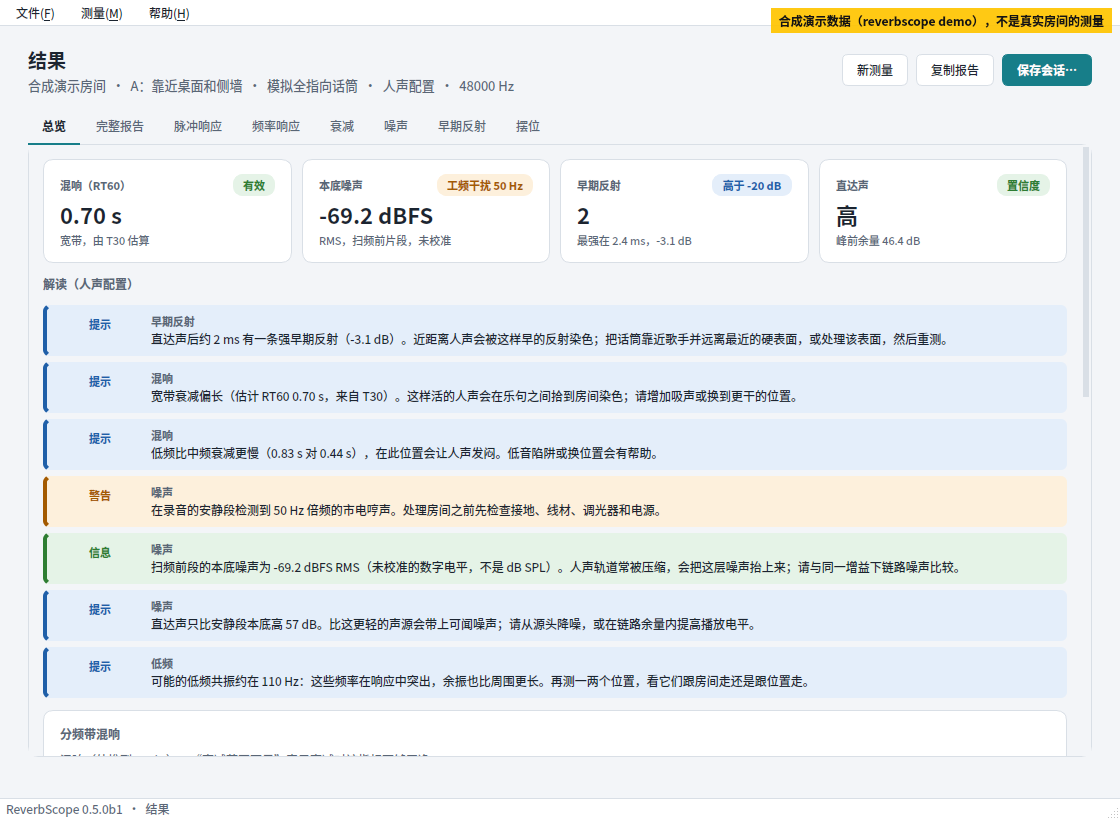
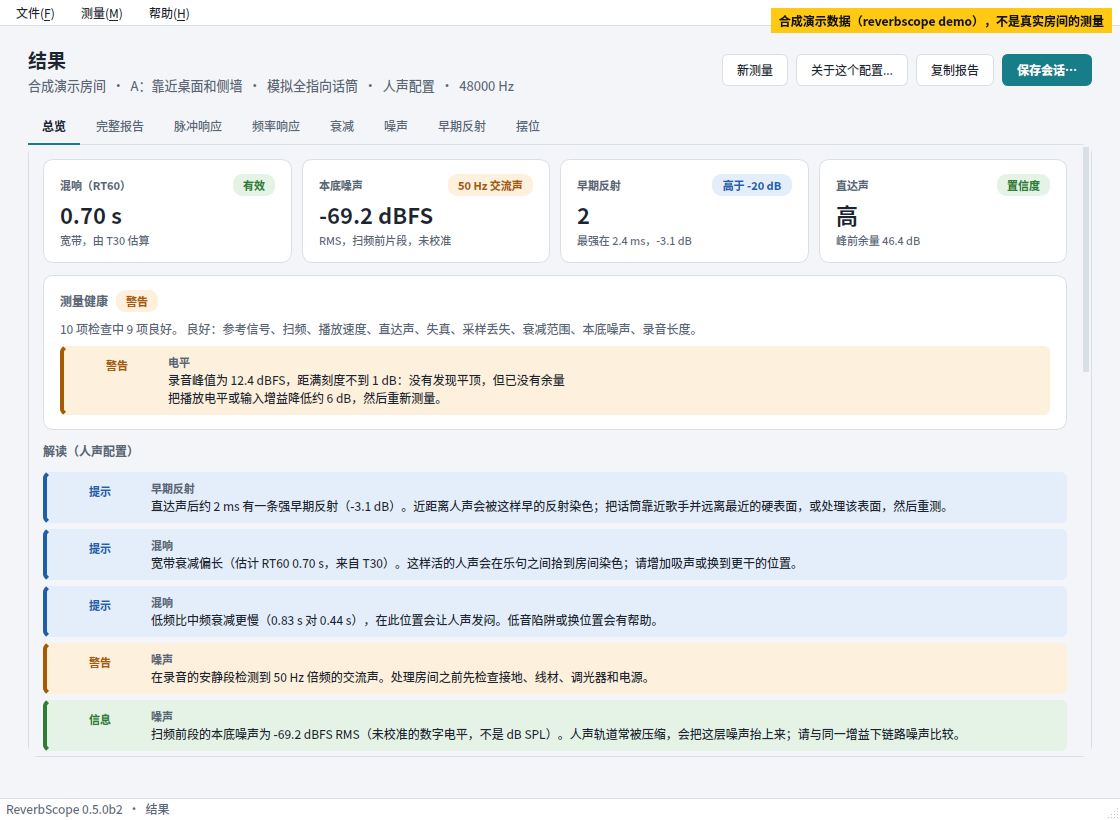
Document the Chinese terms, punctuation and wrapping in the guides and the changelog
Both user guides say which word the Chinese interface uses for what, how a
list, a clause, a note in brackets, a label and a wrong value are written,
what the wrapping keeps together and that libsndfile's reason is given in
Chinese. The overview table of the Chinese guide and the architecture notes
call its first column 方面, the README pair and the maintainers' table name
the new checks, the status record has a line, the Chinese screenshot of
the desktop app is drawn again from the current build (it showed the old
build with 市电哼声 and 工频干扰), and the changelog has the entry under
Unreleased.

Claude-Session: https://claude.ai/code/session_01EWUXx2eUbgYTNx9Lyb1kYG

diff --git a/docs/ARCHITECTURE_V1.zh-CN.md b/docs/ARCHITECTURE_V1.zh-CN.md
@@ -125,7 +125,7 @@ Profile 注册表合并内置与 entry point；第三方名字与内置冲突时
 
 退出码：0 成功；1 `ReverbScopeError`；2 用法错误或安全拒绝（电平确认）；130 中断。`--format json` 在 stdout 只输出 `result.json` 载荷加 `findings`，诊断全部走 stderr；`--json` 保留一个次版本作为别名后移除。
 
-文本输出由 `reverbscope/cli/console.py`（样式、状态符号、按显示宽度换行与制表）和 `reverbscope/cli/render.py` 排版，其他模块不写转义序列。颜色依次由 `--color`、`NO_COLOR`、`FORCE_COLOR`、`TERM=dumb` 决定，`auto` 只在终端上着色：管道和文件永远收不到转义序列或回车符。每个状态都同时带符号和文字（`✓` / `!` / `×` / `→`；流无法编码这些符号时用 `[OK]` / `[WARN]` / `[ERROR]` / `->`），颜色从不单独表达信息；在这样的流上，`Δ`、`→`、`–` 等符号也改用 ASCII，编码较窄的终端会替换无法显示的字符而不会报错。宽度计算中一个中日韩字符占两列；排版最宽 100 列。在画边框的终端上（管道、文件和图形界面的报告面板从不画），“概览”是一张带边框的表，列为项目、状态和结果，状态格是一个徽标，即符号加一个词（`✓ 良好`、`! 注意`、`✗ 问题`、`i 说明`；对比里是 `✓ 已对比` 和 `– 未对比`）：结果列先换行，仍放不下才省略状态列并在表下说明，连表都放不下时才用纯文本版式的对齐行。同样的条件下，每条解读发现是一张卡片（`Console.frame`：与终端等宽的圆角框，严重程度和主题写在上边框，边框按严重程度着色），错误是标题为 `✗ 错误` 的红色卡片，信息和说明在卡片里，可以尝试的命令留在卡片下面、不加框；卡片放不下的文字（路径从不截断）改用普通行，同一小节的卡片要么全画要么都不画。argparse 在解析选项之前抛出的用法错误，由手工读取 `--style` 和 `style` 设置来决定样式。
+文本输出由 `reverbscope/cli/console.py`（样式、状态符号、按显示宽度换行与制表）和 `reverbscope/cli/render.py` 排版，其他模块不写转义序列。颜色依次由 `--color`、`NO_COLOR`、`FORCE_COLOR`、`TERM=dumb` 决定，`auto` 只在终端上着色：管道和文件永远收不到转义序列或回车符。每个状态都同时带符号和文字（`✓` / `!` / `×` / `→`；流无法编码这些符号时用 `[OK]` / `[WARN]` / `[ERROR]` / `->`），颜色从不单独表达信息；在这样的流上，`Δ`、`→`、`–` 等符号也改用 ASCII，编码较窄的终端会替换无法显示的字符而不会报错。宽度计算中一个中日韩字符占两列；排版最宽 100 列；换行时一行不以右括号、句号等收尾标点开头（前一个字连同它前面的两字词的前半一起移到下一行），全角括号里的说明（如 `（默认：10）`）整体下移，最后一行不会只剩一个字；中文的标点由 `reverbscope/i18n.py` 的 `annotated`、`labelled`、`clause_join`、`list_join` 和 `quoted` 按中文写，英文保持原样。在画边框的终端上（管道、文件和图形界面的报告面板从不画），“概览”是一张带边框的表，列为方面、状态和结果，状态格是一个徽标，即符号加一个词（`✓ 良好`、`! 注意`、`✗ 问题`、`i 说明`；对比里是 `✓ 已对比` 和 `– 未对比`）：结果列先换行，仍放不下才省略状态列并在表下说明，连表都放不下时才用纯文本版式的对齐行。同样的条件下，每条解读发现是一张卡片（`Console.frame`：与终端等宽的圆角框，严重程度和主题写在上边框，边框按严重程度着色），错误是标题为 `✗ 错误` 的红色卡片，信息和说明在卡片里，可以尝试的命令留在卡片下面、不加框；卡片放不下的文字（路径从不截断）改用普通行，同一小节的卡片要么全画要么都不画。argparse 在解析选项之前抛出的用法错误，由手工读取 `--style` 和 `style` 设置来决定样式。
 
 每个命令的输出结构相同：标题与上下文、结果（分析和对比先给“概览”）、细节，最后是编号的下一步。普通用户错误只显示一个错误块（`× 错误：…`、说明和可以尝试的命令），退出码按文档约定；只有加 `--verbose` 才显示回溯。直接运行 `reverbscope` 会在 stderr 上显示简短的首页，退出码仍是用法错误的 2。`measure` 把设备方案和检查结果写到 stdout，进度写到 stderr（终端上是一行原地刷新的进度条，带百分比和时钟，不会碰到终端最后一列，终端窄时先去掉进度条再去掉时钟，否则只有一行阶段提示；由等待线程绘制，从不在音频回调里）。文本版式不属于 Tier 1 接口。图形界面的“完整报告”面板以纯文本显示同样的 `render.py` 报告；开发者工具里的环境报告仍使用 `diagnostics.format_environment_report`。
 

diff --git a/CHANGELOG.md b/CHANGELOG.md
@@ -93,6 +93,31 @@ All notable changes to ReverbScope are documented here. The format follows
   during a take. A pipe, a file, a terminal narrower than 48 columns, `--style
   plain`, `--format json` and the desktop app's report text are unchanged. From
   the redesign of PR #42, drawn on this line's own frames.
+- **Chinese terms, punctuation and wrapping.** The Chinese interface said
+  the same thing in two or three words on one screen: 声卡, 音频接口 and
+  音频硬件 for the audio interface, 回送 and 回环 for a loopback, 市电哼声
+  and 电源嗡声 for mains hum, 比较 and 对比 for a comparison (`不可比较`
+  beside `可对比`), 基线 and 候选 for the two sessions of a comparison (候选
+  means an election candidate), 项目 for the project and for a row of the
+  overview table. It is 音频接口, 回采 (the word of audio interfaces), 交流声
+  and 对比 now, 基准 and 对比项 for the two sessions (基线 stays the baseline
+  level, 候选 the candidate peak) and 方面 for a row of the table; a catalog
+  test keeps the retired words out and the guides use the same words. The
+  punctuation is Chinese too: a list is joined with `、`, a clause with `；`,
+  a note sits in full-width brackets (`RT60 0.70 s（T30）`,
+  `110 Hz（+11.3 dB）`, `警告（电平）`), `label：text` has the full-width colon,
+  the speed of sound reads `343.2 m/s，气温 20 °C（假定）`, the menu's
+  questions end in `（默认：48000）：`, and a catalog test finds any ASCII
+  bracket, comma, colon or quote beside Chinese. A wrong value is quoted
+  “like this” (`无效的选择：“bogus”（可选：“init”、“add”）`; argparse said
+  `无效选项` and used ASCII quotes). When Chinese text wraps, a line no longer
+  starts with a closing mark, a hint such as `（默认：10）` moves down whole, a
+  two-character word is not split before a mark and the last line is never a
+  lone character. When libsndfile cannot open an audio file the Chinese says
+  why (not an audio file, damaged or cut short, an encoding that is not
+  supported, empty) instead of ending in its English; English keeps its words,
+  and so does every English line, JSON and pipe. From the redesign of PR #42,
+  on this line's own code.
 - **An interactive menu.** `reverbscope` with no command on a terminal opens
   a numbered menu (demo, test signal, analyse, measure, show, compare,
   project overview, settings, environment report, desktop app). Each choice

diff --git a/docs/user-guide/zh-CN.md b/docs/user-guide/zh-CN.md
@@ -153,6 +153,8 @@ reverbscope config language auto    # 改回跟随系统
 
 中文界面会翻译解读、文本报告的标签、图形界面和全部命令行帮助（`reverbscope --help` 及每个子命令，包括占位符和 argparse 自己的提示）。单位不翻译；数字保持 ASCII。诊断说明和警告在 `result.json` 中以英文保存，显示时翻译。
 
+中文界面一个概念只用一个词：音频接口、回采（loopback）、交流声、对比；对比的两个会话叫基准和对比项（基线指基线电平，候选指候选峰和候选反射）。标点也按中文写：列表用“、”，分句用“；”，括号里的说明用全角括号（`RT60 0.70 s（T30）`），“标签：内容”用全角冒号，输错的值放在“ ”里（`无效的选择：“bogus”`）。文字换行时，一行不会以句号、逗号、右括号等开头，紧挨着标点的两字词不会被拆开，`（默认：10）` 这样的默认值提示整体移到下一行，最后一行不会只剩一个字。libsndfile 打不开音频文件时，会用中文说明原因（不是音频文件、已损坏或被截断、编码不受支持、文件为空）；英文界面保留 libsndfile 的原话。
+
 `reverbscope config` 列出桌面版保存的其他设置，并可以在命令行里修改它们，终端版也一样：`profile`（默认录音配置）、`backend`（`portaudio` 或 `fake`）、`output-folder`、`copy-recording` 和 `developer-tools`（`on` 或 `off`），以及 `theme`（`system`、`light` 或 `dark`，只影响桌面版）。例如 `reverbscope config profile vocal`；`auto` 把一项设置恢复为默认值，`reverbscope --format json config` 以 JSON 输出所有设置。
 
 在终端里，命令行使用颜色和 ✓ ! × 符号；输出重定向到文件或其他程序时只写纯文本。`--color never` 或环境变量 `NO_COLOR` 关闭颜色，`--color always` 在管道中也保留颜色。

diff --git a/docs/user-guide/en.md b/docs/user-guide/en.md
@@ -344,6 +344,19 @@ argparse's own messages included). Units stay untranslated; digits stay
 ASCII. Diagnostic notes and warnings are stored in English in `result.json`
 and shown translated.
 
+The Chinese text says one word for each thing: 音频接口 for the audio
+interface, 回采 for a loopback, 交流声 for mains hum, 对比 for a comparison
+with 基准 and 对比项 for its two sessions (基线 is a baseline level, 候选 a
+candidate peak). It is punctuated in Chinese as well: a list is joined with
+`、`, clauses with `；`, a note sits in full-width brackets
+(`RT60 0.70 s（T30）`), `label：text` has the full-width colon, and a wrong
+value is quoted “like this” (`无效的选择：“bogus”`). When text wraps, a line
+never starts with a closing mark, a two-character word is not split before
+one, a default hint such as `（默认：10）` moves down whole and the last line
+is more than one character. When libsndfile cannot open an audio file the
+reason is given in Chinese (not an audio file, damaged or cut short, an
+encoding that is not supported, empty); English keeps libsndfile's words.
+
 `reverbscope config` lists the other settings the desktop app keeps and
 changes them from the command line, also in the Terminal Edition:
 `profile` (the default recording profile), `backend` (`portaudio` or

diff --git a/README.zh-CN.md b/README.zh-CN.md
@@ -97,9 +97,9 @@
 
 `reverbscope demo` 会模拟一个房间里的两个话筒位置，用真实的分析和对比流程处理它们，并告诉你下一步
 做什么。桌面版的 **演示** 则是在一个模拟房间里完成一次独立模式测量。两者显示的每个数值都描述的是模拟
-结果，保存的每个会话都标记为合成演示。在终端里，每个位置的结果以及两者的对比都是一张表，列为项目、
+结果，保存的每个会话都标记为合成演示。在终端里，每个位置的结果以及两者的对比都是一张表，列为方面、
 状态和结果；状态是一个符号加一个词（`✓ 良好`、`! 注意`、`✗ 问题`），所以颜色从不单独表达信息；输出到
-管道或文件时则是纯文本的对齐行。
+管道或文件时则是纯文本的对齐行。中文界面的标点按中文写，换行时一行不会以右括号、句号等开头。
 
 **然后进行真实测量：** 先把监听音箱音量**调低**（ReverbScope 不会改动系统音量），然后二选一：让
 ReverbScope 通过你的音频接口自己播放并录音（**独立模式**），或者在 DAW 中播放它的扫频（**通用 DAW

diff --git a/docs/ARCHITECTURE_V1.md b/docs/ARCHITECTURE_V1.md
@@ -574,7 +574,13 @@ carriage return. Every status carries a symbol and a word (`✓` / `!` / `×` /
 them), so colour is never the only signal; on such a stream the other signs
 (`Δ`, `→`, `–`) are written in ASCII too, and a narrow terminal encoding
 replaces what it cannot show instead of failing. Widths count a CJK character
-as two columns; text is laid out for at most 100 columns. On a terminal that
+as two columns; text is laid out for at most 100 columns. A wrapped line
+never starts with a closing mark (the character before it goes down with it,
+and with that the first half of a two-character word), a note in full-width
+brackets such as `（默认：10）` moves down whole, and the last line is more
+than one character; the Chinese is punctuated in Chinese by `annotated`,
+`labelled`, `clause_join`, `list_join` and `quoted` of `reverbscope/i18n.py`,
+which leave English as it was. On a terminal that
 draws frames ("boxed"; never a pipe, a file or the GUI's report panes) "At a
 glance" is a bordered table of topic, status and result whose status cell is
 a badge, the mark and a word (`✓ good`, `! check`, `✗ problem`, `i note`; in

diff --git a/docs/MAINTAINING.md b/docs/MAINTAINING.md
@@ -168,4 +168,4 @@ version and build commit, the files and the expectation. Then, in order
 | Dependencies and licences | [DEPENDENCIES.md](DEPENDENCIES.md), [THIRD_PARTY_REVIEW.md](THIRD_PARTY_REVIEW.md), `scripts/build_license_bundle.py` |
 | Build a release without Actions minutes | [RELEASE_PLAN.md §3a](RELEASE_PLAN.md#3a-without-github-actions-minutes), `scripts/build_release.py` |
 | Timings and memory | [PERFORMANCE.md](PERFORMANCE.md), `scripts/benchmark.py`, `scripts/bench_dsp.py` |
-| Translations | `src/reverbscope/locale/zh_CN/LC_MESSAGES/reverbscope.po`; `tests/unit/test_i18n_catalog.py` fails on any untranslated string |
+| Translations | `src/reverbscope/locale/zh_CN/LC_MESSAGES/reverbscope.po`; `tests/unit/test_i18n_catalog.py` fails on any untranslated string, on a retired Chinese word (one word for each concept) and on ASCII punctuation beside Chinese; `tests/unit/test_cli_layout.py` checks the punctuation and wrapping of whole screens |

diff --git a/docs/STATUS.md b/docs/STATUS.md
@@ -132,7 +132,11 @@ untouched).
   and an error is a panel, a take's progress is a bar that never reaches
   the last column, and bare `reverbscope` on a terminal opens a
   numbered menu that prints the command it runs each time. Harvested from
-  PR #42 without its dependencies.
+  PR #42 without its dependencies. The Chinese says one word for each thing
+  (a catalog test keeps the retired words out), writes its lists, brackets,
+  colons and quotes in Chinese, keeps a closing mark, a hint and a word's two
+  halves together when it wraps, and explains why libsndfile could not open a
+  file.
 * **Profiles explained, and a first-measurement card** (fifth batch):
   `reverbscope profiles [name]` and the "What does it want?" button say what
   a recording profile watches for and what it does not judge, from its own

diff --git a/README.md b/README.md
@@ -114,7 +114,9 @@ number either one shows describes the simulation, and every session either
 one saves is marked as a synthetic demo. In a terminal each position's
 results, and their comparison, come as a table of topic, status and result;
 the status is a mark and a word (`✓ good`, `! check`, `✗ problem`), so colour
-is never the only signal, and a pipe or a file gets plain lines instead.
+is never the only signal, and a pipe or a file gets plain lines instead. The
+Chinese text is punctuated in Chinese and wrapped so that a line never starts
+with a closing mark.
 
 **Then measure for real:** turn the monitors **down** (ReverbScope never
 changes system volume), then either let ReverbScope play and record through
